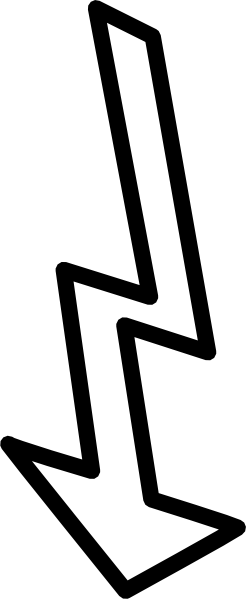
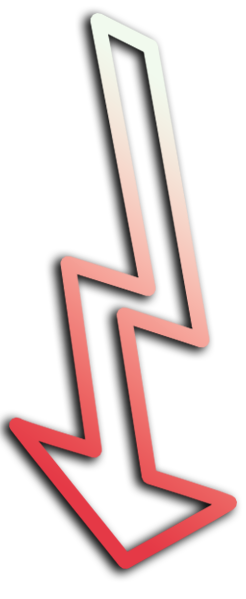
new item , cool bg

diff --git a/Assets/JS/Home.js b/Assets/JS/Home.js
@@ -111,38 +111,65 @@ function rollDice() {
     personDice = Math.ceil((Math.random() * 6));
     personDiceImg = diceImgs[personDice];
     personDiceImgElement.src = personDiceImg;
-    var animationDuration = "2s";
-    if (localStorage.getItem("speed_boost") === "true") {
-        timeOut = 500;
-        animationDuration = ".5s";
+    var speedBoost = localStorage.getItem("speed_boost") === null ? "false" : localStorage.getItem("speed_boost");
+
+
+    // Set the default animation duration
+    var animationDuration = "3s";
+
+    // If the user has speed_boost, reduce the animation duration to 1s
+    if (speedBoost === "true") {
+        animationDuration = "1s";
     }
+
+    // Set a timeout to run the animation after 1 second (1000 milliseconds)
     setTimeout(() => {
+        // Set the animation duration for personDiceImgElement
         personDiceImgElement.style.animationDuration = animationDuration;
+
+        // Add the fadeIn class to personDiceImgElement
         personDiceImgElement.classList.add("fadeIn");
+
+        // Display personDiceImgElement
         personDiceImgElement.style.display = "flex";
-    }, 1000)
-    playerDiceImgElement.style.animationDuration = animationDuration;
-    playerDiceImgElement.classList.add("fadeIn");
-    playerDiceImgElement.style.display = "flex";
-    setTimeout(() => {
+
+        // Set the animation duration for playerDiceImgElement
+        playerDiceImgElement.style.animationDuration = animationDuration;
+
+        // Add the fadeIn class to playerDiceImgElement
+        playerDiceImgElement.classList.add("fadeIn");
+
+        // Display playerDiceImgElement
+        playerDiceImgElement.style.display = "flex";
+
+        // Call compareDices and restartBtn animations after the appropriate timeout
         compareDices();
-    }, timeOut);
-    setTimeout(() => {
-        restartBtn.classList.add("fadeIn");
-        restartBtn.style.display = "inline";
-    }, timeOut)
+        setTimeout(() => {
+            restartBtn.classList.add("fadeIn");
+            restartBtn.style.display = "inline";
+        }, speedBoost === "true" ? 500 : 5000); // Use 500ms timeout if speed_boost is true, else 1000ms
+    }, 1000);
 }
 
 function compareDices() {
-    var gameAmount = Math.floor(Math.random() * 500) + 100;
+    var gameAmount = Math.floor(Math.random() * 1500) + 500;
     var userMoney = parseInt(getValue("money"));
     gameResult.classList.add("fadeIn");
+    var percentageBoost = localStorage.getItem("percentage_boost") === null ? "false" : localStorage.getItem("percentage_boost");
 
+    var difference = Math.abs(playerDice - personDice);
+    difference *= 10
+    var percentWon = difference + Math.floor(Math.random() * 50) + 1;
+    console.log(gameAmount)
     if (playerDice > personDice) {
+        if (percentageBoost === "true") {
+            gameAmount = Math.floor(gameAmount + (percentWon / 100 * gameAmount));
+            console.log(gameAmount)
+        }
         setValue("money", gameAmount + userMoney);
         trashTalkElement.textContent = randomPerson.lost;
         gameResult.classList.add("won");
-        gameResult.innerHTML = `You rolled ${playerDice}, ${randomPerson.name} rolled a ${personDice}. You won! +${gameAmount}`;
+        gameResult.innerHTML = `You rolled ${playerDice}, ${randomPerson.name} rolled a ${personDice}. You won! +${gameAmount} (${percentWon}% boost)`;
     } else if (playerDice < personDice) {
         if (gameAmount > userMoney) {
             setValue("money", 0);

diff --git a/Assets/Html/Shop.html b/Assets/Html/Shop.html
@@ -38,21 +38,25 @@
           </div>
         </div>
       </div>
+
       <div class="item" id="item2">
         <div class="title">
-          <h1>Item2</h1>
+          <h1>Percent Multiplier</h1>
         </div>
         <div class="description">
-          <p></p>
+          <p>Buy this if you want to gain a x amount of percentage boost on your winnings. </p>
         </div>
-        <div class="image"><img src="" alt="" /></div>
+        <div class="image"><img src="../images/items/percentage_boost.png" alt="percent image" /></div>
         <div class="price-info">
           <div class="price">
-            <h3></h3>
+            <h3>$25,000</h3>
           </div>
-          <div class="button"></div>
+          <div class="button">
+            <button id="percentage_boost" onclick="buy(this)" price="25000">Purchase</button>
+          </div>
         </div>
       </div>
+
       <div class="item" id="item3">
         <div class="title">
           <h1>Item3</h1>
@@ -68,6 +72,7 @@
           <div class="button"></div>
         </div>
       </div>
+
       <div class="item" id="item4">
         <div class="title">
           <h1>Item4</h1>
@@ -83,6 +88,7 @@
           <div class="button"></div>
         </div>
       </div>
+
     </div>
   </body>
 </html>

diff --git a/Assets/JS/Shop.js b/Assets/JS/Shop.js
@@ -23,10 +23,20 @@ function buy(element) {
             } else {
                 setValue("money", userMoney - itemPrice);
                 setValue("speed_boost", "true");
-                alert("Successfully.");
+                alert("Successful.");
                 reload();
             }
             break;
+        case "percentage_boost":
+            if (userMoney < itemPrice) {
+                alert("You don't have enough money to buy this!");
+                reload();
+            } else {
+                setValue("money", userMoney - itemPrice);
+                setValue("percentage_boost", "true");
+                alert("Successful.");
+                reload();
+            }
         default:
             break;
     }

diff --git a/Assets/CSS/Shop.css b/Assets/CSS/Shop.css
@@ -21,7 +21,25 @@
   width: 28rem;
   margin: auto;
   padding: 10px;
+  text-shadow: 0 0 5px;
 }
+
+#item1 {
+  background: linear-gradient(#e63946, #f1faee);
+}
+
+#item2 {
+  background: linear-gradient(green, yellow);
+}
+
+#item3 {
+  background: linear-gradient(#2a9d8f, #e9c46a);
+}
+
+#item4 {
+  background: linear-gradient(#ca6702, #bb3e03);
+}
+
 
 .image img {
     height: 300px;
@@ -47,6 +65,10 @@
     font-size: large;
 }
 
+.description {
+  font-size: large;
+}
+
 .buy:hover {
     transform: scale(0.9);
 }
@@ -70,7 +92,7 @@ button {
 }
 
 .boughtP {
-    background: rgba(32, 0, 64, 0.249);
+    background: rgba(32, 0, 64, 0.249) !important;
 }
 
 .bought {

diff --git a/Assets/CSS/Home.css b/Assets/CSS/Home.css
@@ -4,15 +4,16 @@ body {
 }
 
 .result {
-  position: fixed;
-  top: 50%;
-  left: 50%;
-  transform: translate(-50%, -525%);
+  margin: auto;
+  margin-top: 5rem;
+  position: relative;
   color: #fff;
   text-shadow: 0 0 10px;
   text-align: center;
   letter-spacing: 2px;
   font-size: small;
+  align-items: center;
+  justify-content: center;
 }
 
 .won {
@@ -25,13 +26,14 @@ body {
 
 .container {
   display: flex;
+  margin: auto;
   justify-content: space-evenly;
   align-items: center;
-  
 }
 
 .person,
 .player {
+  margin: auto;
   display: flex;
   background: linear-gradient(to right, #52b788, #40916c);
   width: 20rem;

diff --git a/Home.htm b/Home.htm
@@ -50,6 +50,9 @@
         <img id="dice-img2" src="" alt="dice png" />
       </div>
     </div>
+    <div class="result">
+     <h1 id="game_result"></h1>
+    </div>
 
     <button class="start-btn" id="start-btn" onclick="rollDice()">
       Roll the dice
@@ -59,9 +62,6 @@
       Restart
      </button>
 
-     <div class="result">
-      <h1 id="game_result">You rolled ${playerDice}, ${randomPerson.name} rolled a ${personDice}. You won!<br/>+${gameAmount}</h1>
-     </div>
 
   </body>
 </html>
